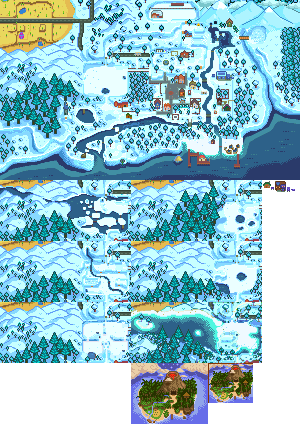
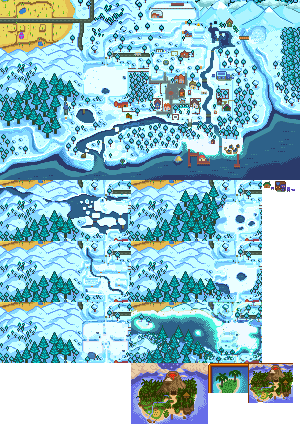
make detailed island optional

Changed region(s): [[0.69, 0.8585, 0.99, 0.9505]]

diff --git a/NPCMapLocations/ui/ModMapPage.cs b/NPCMapLocations/ui/ModMapPage.cs
@@ -60,7 +60,6 @@ namespace NPCMapLocations
       drawPamHouseUpgrade = Game1.MasterPlayer.mailReceived.Contains("pamHouseUpgrade");
       drawMovieTheaterJoja = Utility.doesMasterPlayerHaveMailReceivedButNotMailForTomorrow("ccMovieTheaterJoja");
       drawMovieTheater = Utility.doesMasterPlayerHaveMailReceivedButNotMailForTomorrow("ccMovieTheater");
-      //drawIsland = true;
       drawIsland = Game1.MasterPlayer.hasOrWillReceiveMail("Visited_Island");
       mapX = (int)center.X;
       mapY = (int)center.Y;
@@ -369,7 +368,7 @@ namespace NPCMapLocations
 
       if (drawIsland)
       {
-        b.Draw(ModMain.Map, new Vector2(mapX + 1020, mapY + 560), new Rectangle(208, 363, 45, 40), Color.White, 0f, Vector2.Zero, 4f, SpriteEffects.None, 0.861f);
+        b.Draw(ModMain.Map, new Vector2(mapX + 1020, mapY + 560), new Rectangle(248, 363, 45, 40), Color.White, 0f, Vector2.Zero, 4f, SpriteEffects.None, 0.861f);
       }
 
       var playerLocationName = getPlayerLocationNameForMap();

diff --git a/NPCMapLocations/ui/ModMinimap.cs b/NPCMapLocations/ui/ModMinimap.cs
@@ -349,7 +349,13 @@ namespace NPCMapLocations
 
       if (drawIsland)
       {
-        b.Draw(ModMain.Map, new Vector2(NormalizeToMap(offsetMmLoc.X + 1020), NormalizeToMap(offsetMmLoc.Y + 560)), new Rectangle(208, 363, 45, 40), Color.White, 0f, Vector2.Zero, 4f, SpriteEffects.None, 0.861f);
+        var islandRect = new Rectangle(208, 363, 40, 30);
+        if (ModMain.Globals.UseDetailedIsland)
+        {
+          islandRect = new Rectangle(248, 363, 45, 40);
+        }
+
+        b.Draw(ModMain.Map, new Vector2(NormalizeToMap(offsetMmLoc.X + 1020), NormalizeToMap(offsetMmLoc.Y + 560)), islandRect, Color.White, 0f, Vector2.Zero, 4f, SpriteEffects.None, 0.861f);
       }
 
       //
